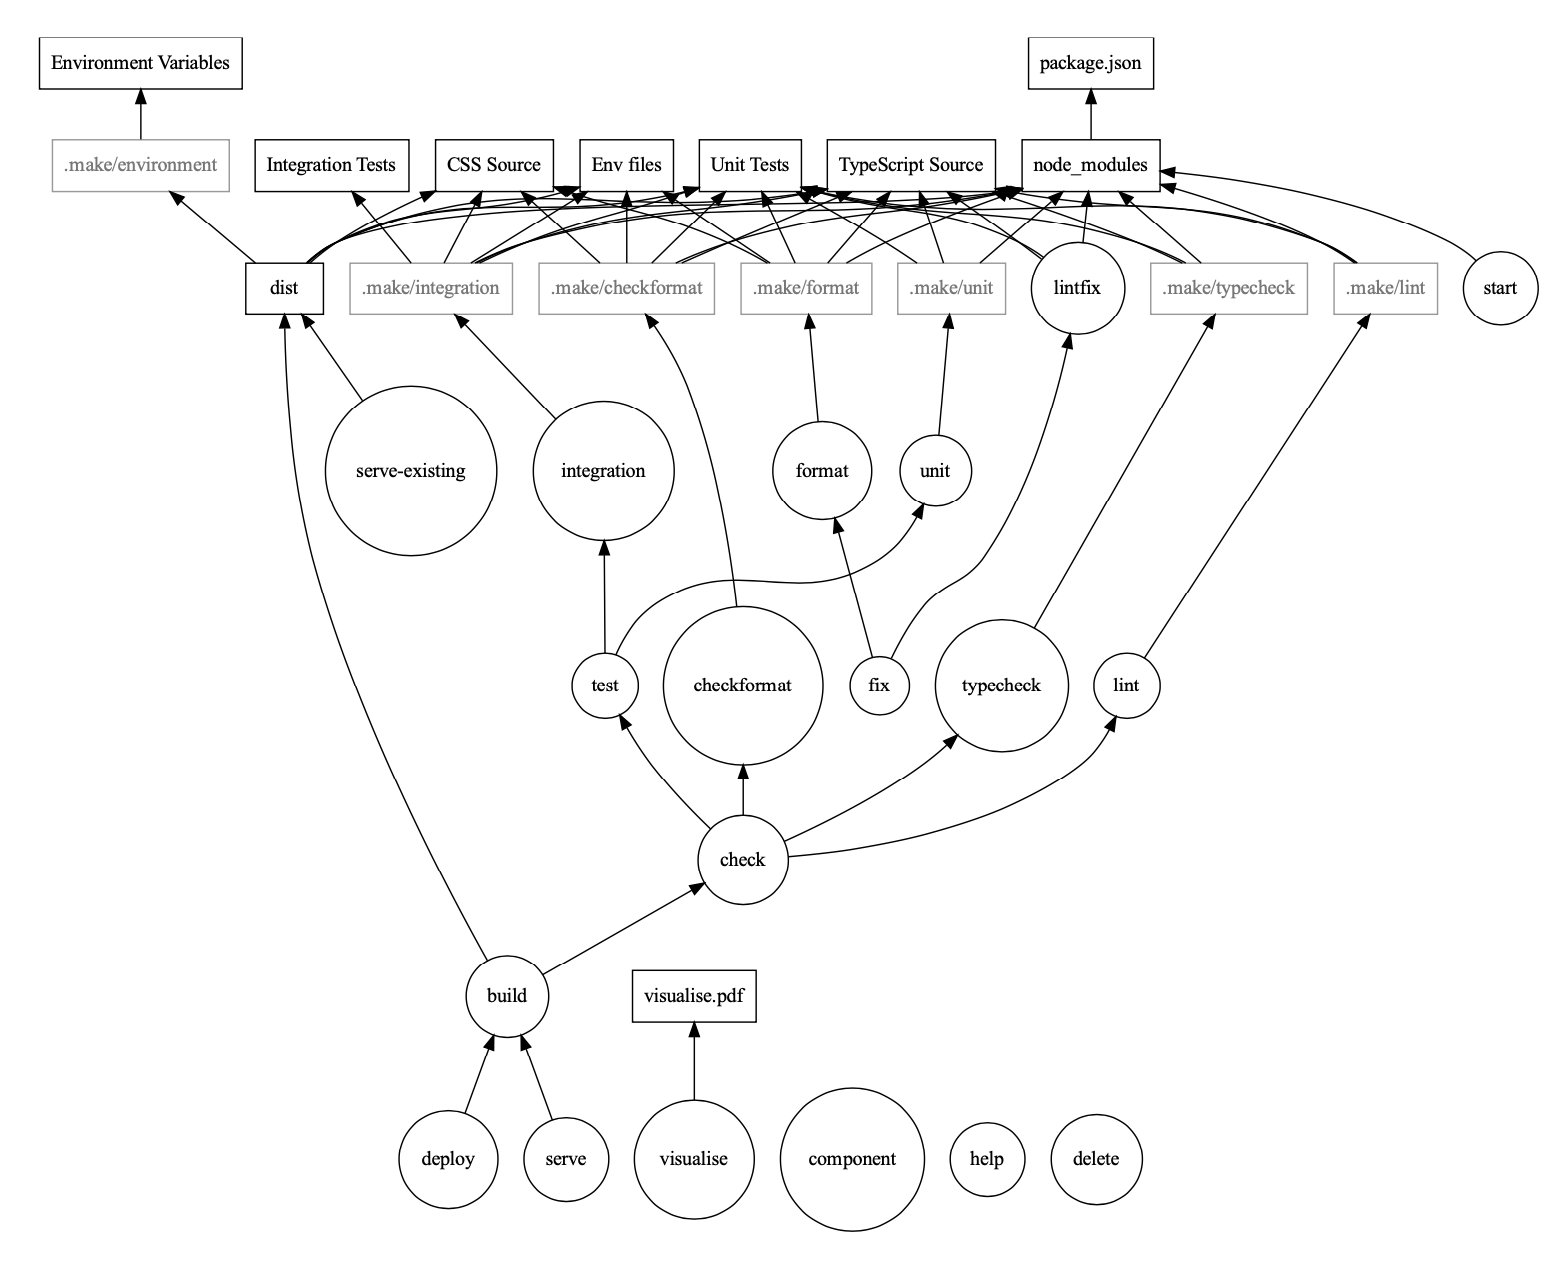
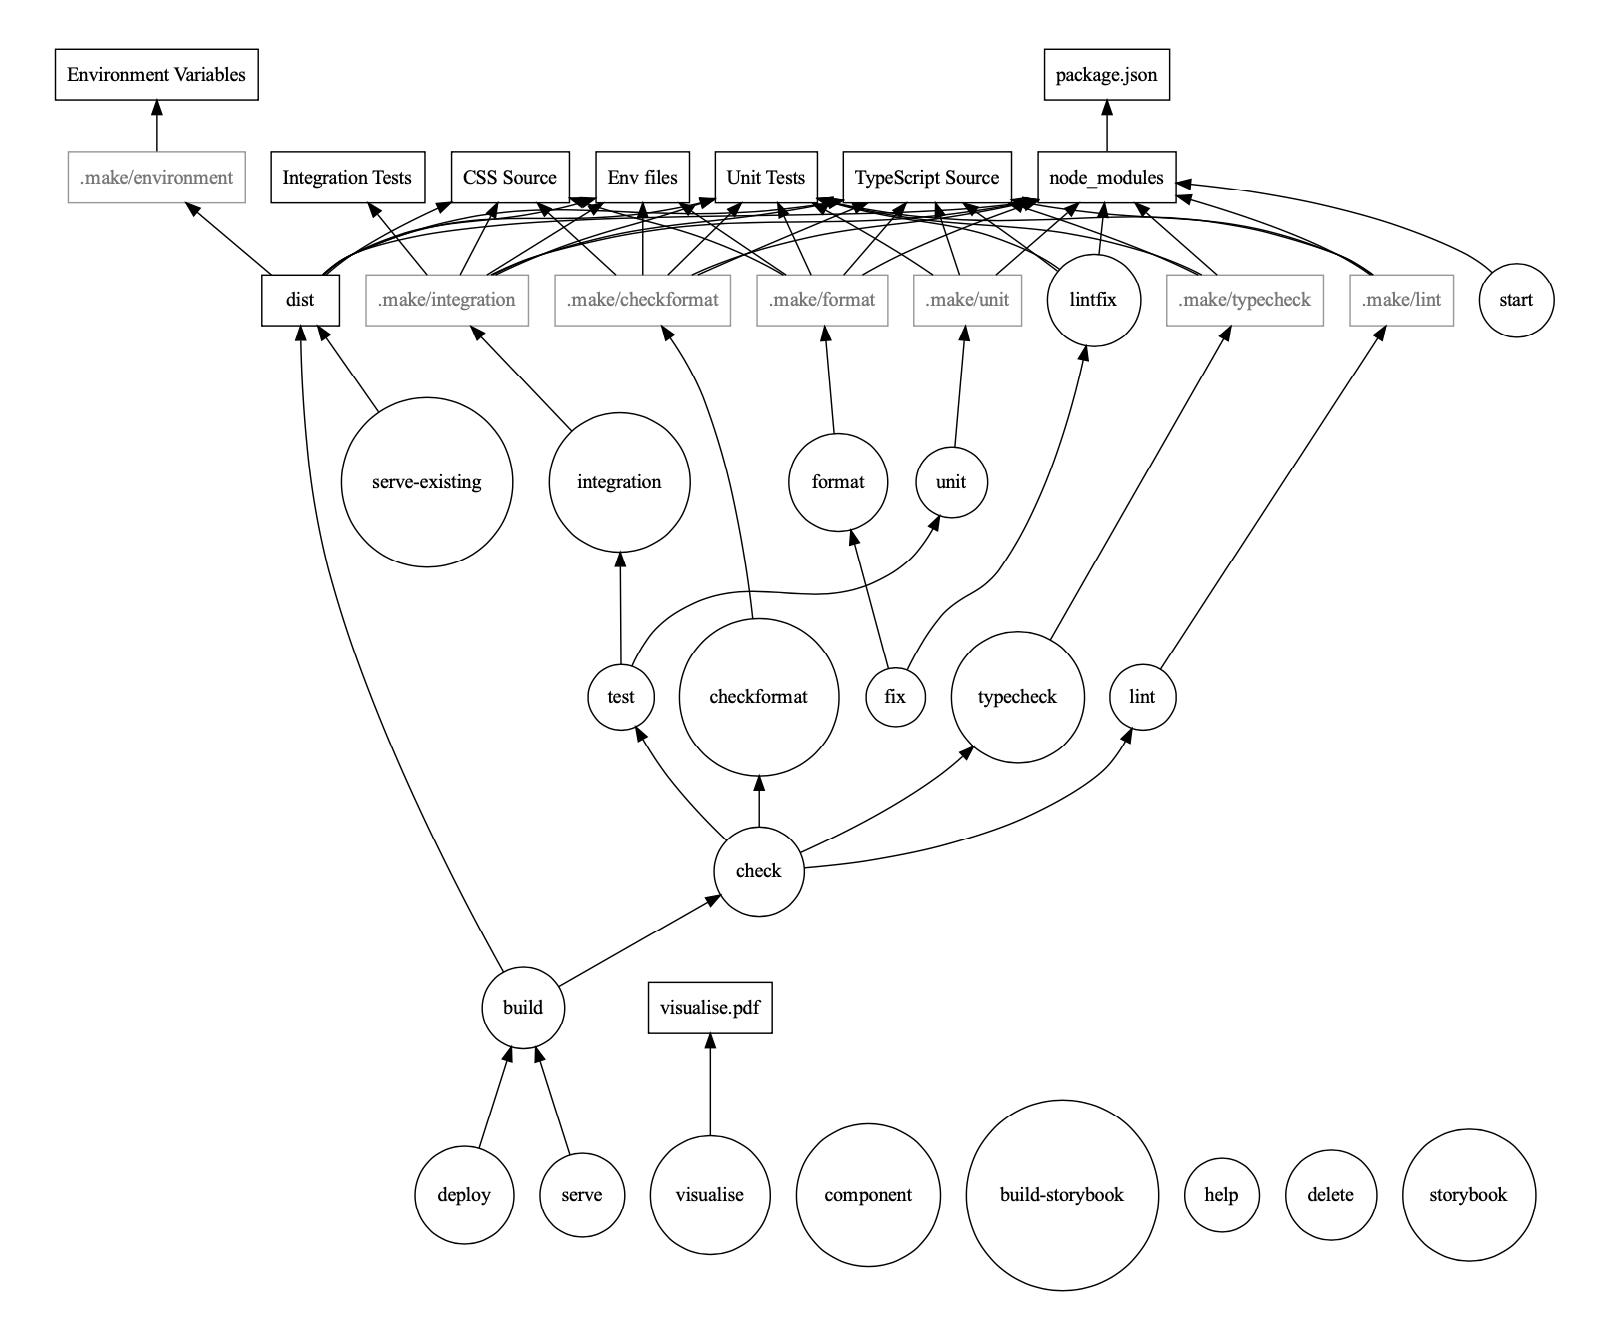
Add storybook build and more makefile commands

diff --git a/README.md b/README.md
@@ -67,17 +67,20 @@ $ make integration  # Only run integration tests
 ```bash
 $ make serve ENV=dev   # Create and serve a production build using `.env.dev` file.
 $ make serve ENV=prod  # Create a production build using `.env.prod` file.
-$ make start ENV=dev   # Start dev server using `.env.dev` file.
+$ make start ENV=qa    # Start dev server using `.env.qa` file.
 ```
 
 ## More Commands
 
 ```bash
-$ make component       # Create a new component with unit test and storybook files
-$ make build           # Create a production build but don't serve it.
-$ make serve-existing  # Serve the existing production build, ignoring dependencies.
-$ make deploy          # Create production build then run deployment script.
-$ make visualise       # Create and open Dependencies PDF (requires Python and GraphViz).
+$ make component        # Create a new component with unit test and storybook files
+$ make storybook        # Start a live-reloading Storybook server for your components.
+$ make storybook-build  # Build your Storybook into a static site to be deployed remotely.
+
+$ make build            # Check and create a production build, but don't serve it.
+$ make serve-existing   # Serve the existing production build, ignoring dependencies.
+$ make deploy           # Create production build then run deployment script.
+$ make visualise        # Create and open Dependencies PDF (requires Python and GraphViz).
 ```
 
 ## Makefile
